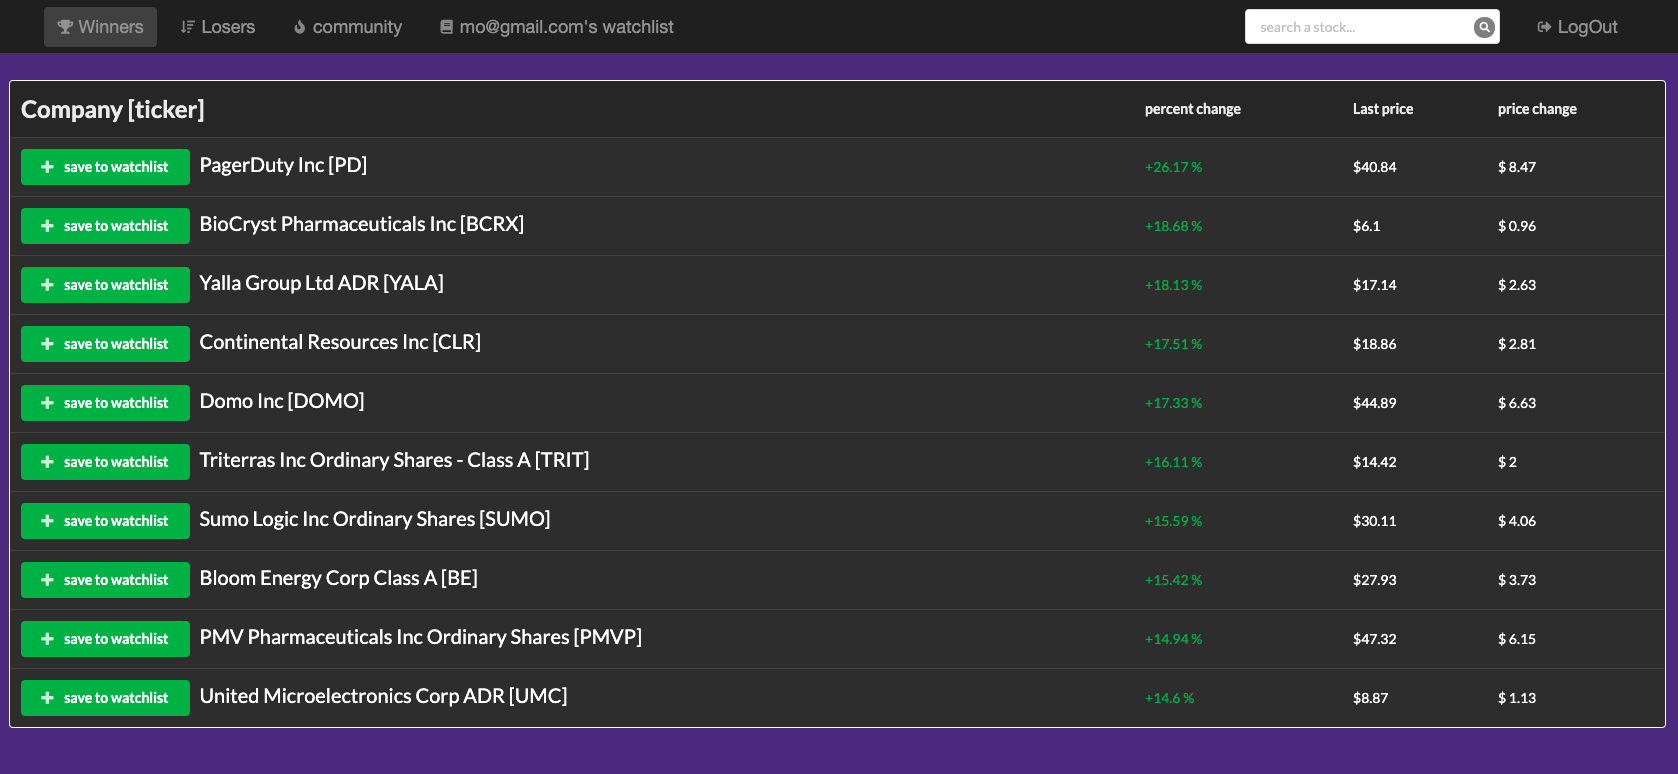
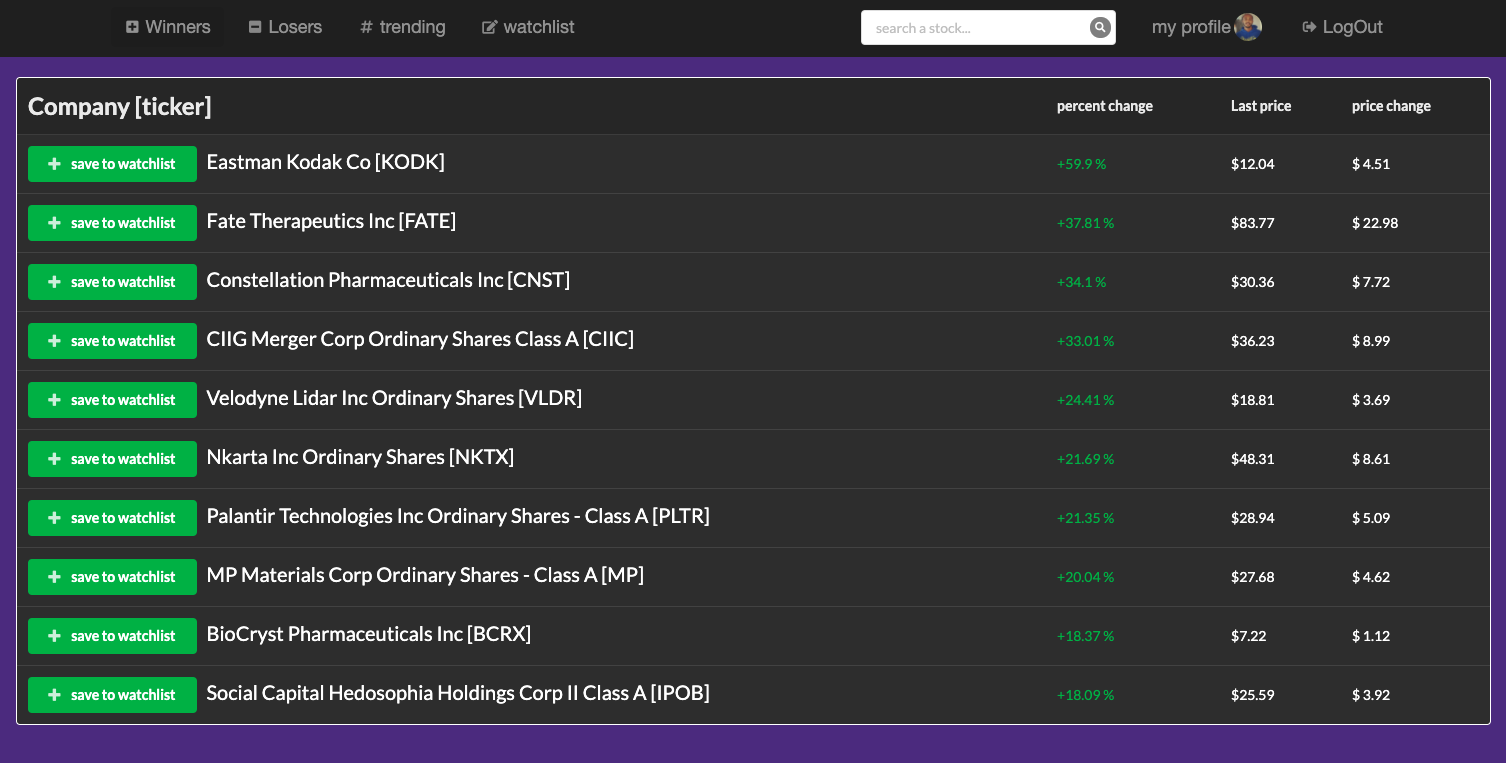
update ui

diff --git a/client/src/containers/Trending/index.js b/client/src/containers/Trending/index.js
@@ -72,45 +72,77 @@ export default class Trending extends Component {
 
   
       {  this.state.filteredUsers.map((item,id)=>(
-
-
+ 
          <div key={item.id} style={{margin:'0 0 20px 0'}}>
 
  
  
-
-
+ 
   
 
-     <div  >
+     <div>
 
+
+     
    
     <Card  fluid style={{border:"none"}}  >
 
-    <Card.Content >
-      <Image
-      
-        size='tiny'
-        src={item.myImages.length? item.myImages[0].filePath : twitter}
-      />
-      <Card.Header >
-        <h1 style={{textAlign:'left',margin:'15px 0 0 0'}}> {item.email}</h1> 
-       </Card.Header>
-    {/* <Card.Meta>{item.email} has {item.myStocks.length} stocks...</Card.Meta> */}
-      
-    </Card.Content>
-    <Card.Content extra>
 
-    
+    <Grid celled='internally'>
+    <Grid.Row>
+      <Grid.Column width={7} >
+
+
+      <Card.Content >
+
+      
+<Image
+floated='left'
+   size='small'
+      style={{borderRadius:'10px',height:'145px'}}
+     src={item.myImages.length? item.myImages[0].filePath : twitter}
+   />
+
+
+<a style={{color:'#999999'}} href={`mailto:${item.email}`} >
+ 
+ <h2 style={{textAlign:'left',margin:'15px 0 0 0'}}> <Icon name='mail'></Icon>{item.email}</h2>
+
+  
+ 
    
-  {item.myStocks.length? 
-<div>
+       </a>
+   <Card.Header  >
+    
+
+    </Card.Header>
+     {item.myStocks.length?
+    <Card.Content>
+      <h3 style={{color:'green',margin:'12px 0 0 0',fontSize:"35px"}}  > <Icon name='pie chart'> </Icon>{item.myStocks.length} stocks... </h3   >
+    </Card.Content>
+  :
+  <h3 style={{margin:'15px 0 0 0'}}> this user does not have any stocks yet</h3>
+  }
+
+
+
+
+ </Card.Content >
+ 
+
+      </Grid.Column>
+      <Grid.Column width={9}>
+
+      <Card.Content extra style={{padding:"15px 0 0 0"}}>
+      
+      {item.myStocks.length? 
+      <div>
 <Table   selectable    >
   <Table.Header>
     <Table.Row>
-       <Table.HeaderCell style={{color:'black'}}>Recent stocks</Table.HeaderCell>
- 
-      <Table.HeaderCell  style={{color:'black'}}>Date</Table.HeaderCell>
+       <Table.HeaderCell style={{color:'black'}}> <h2> Recent stocks</h2> </Table.HeaderCell>
+  
+      <Table.HeaderCell  style={{color:'black'}} > <h2> Date</h2> </Table.HeaderCell>
  
 
      
@@ -121,17 +153,15 @@ export default class Trending extends Component {
     <Table.Row  >
 
  
-      <Table.Cell > 
-        {/* {console.log(item.myStocks[0].text,'item')} */}
-
+      <Table.Cell style={{width:"400px"}} > 
        
-        <p style={{color:'black'}}>{item.myStocks[0].text}</p>
+        <h4 style={{color:'black'}}>{item.myStocks[0].text}</h4>
         
         </Table.Cell>
       
 
-     <Table.Cell> 
-       <p style={{color:'black'}}>{item.myStocks[0].dateCreated } </p>  
+     <Table.Cell > 
+       <h4 style={{color:'black'}}>{item.myStocks[0].dateCreated } </h4>  
        </Table.Cell>
  
 
@@ -140,13 +170,13 @@ export default class Trending extends Component {
 
        <Table.Cell>
  
-<p style={{color:'black'}}>{item.myStocks[1]? item.myStocks[1].text:'none'}</p>
+<h4 style={{color:'black'}}>{item.myStocks[1]? item.myStocks[1].text:'none'}</h4>
 
 
        </Table.Cell>
      
      <Table.Cell> 
-     <p style={{color:'black'}}>{item.myStocks[1]? item.myStocks[1].dateCreated:'none'}</p>
+     <h4 style={{color:'black'}}>{item.myStocks[1]? item.myStocks[1].dateCreated:'none'}</h4>
 
        {/* <p>{item.myStocks.length? item.myStocks[1].dateCreated : 'none'} </p>  */}
        
@@ -201,6 +231,13 @@ export default class Trending extends Component {
   
      
      </Card.Content>
+      </Grid.Column>
+      
+    </Grid.Row>
+    </Grid>
+
+  
+    
 
 
      </Card>      

diff --git a/client/src/containers/UpdateProfile/index.js b/client/src/containers/UpdateProfile/index.js
@@ -191,7 +191,7 @@ handleRequest = (event) => {
            
 
  
-<button className='axiosRequestImages'   onClick={this.handleRequest}> axios request</button>
+<button className='axiosRequestImages'   onClick={this.handleRequest}> add a picture</button>
 
 {/* {this.state.uploadedFile? 
 <div>
@@ -205,16 +205,28 @@ handleRequest = (event) => {
 
 
 
-<h2 style={{textAlign:'center'}}> my images</h2>
+<h2 style={{textAlign:'center'}}> my profile picture</h2>
 <hr></hr>
 <br></br>
+
+ 
 
 {this.state.myImages.map((item)=>(
     <div>
         {/* <p>{item.fileName}</p> */}
-        <img style={{width:'200px',height:'200px',float:'left',margin:"20px",borderRadius:'9px',backgroundColor:'white'}}src={item.filePath}/>
+        <img 
+        style={{width:'200px',
+        height:'200px',
+        float:'left',margin:"20px",
+        borderRadius:'9px',backgroundColor:'white'}}
+        src={item.filePath}
+        />
     </div>
-))}
+ ))
+ }
+
+
+
     </Container>
 </div>
                 

diff --git a/client/src/components/nav/index.js b/client/src/components/nav/index.js
@@ -73,6 +73,8 @@ componentDidMount = () => {
                 name='winners'
                 active={activeItem === 'winners'}
                 onClick={this.handleItemClick}
+ 
+
               >
                 <Icon className='winnermenu'style={{ color: '#9d9d9d' }} name='plus square'></Icon><span className='winnermenu' style={{ color: '#9d9d9d',fontSize:'18px' }}> Winners</span>  </Menu.Item> : null}
          
@@ -82,6 +84,7 @@ componentDidMount = () => {
                 name='losers'
                 active={activeItem === 'losers'}
                 onClick={this.handleItemClick}
+ 
               > <Icon style={{ color: '#9d9d9d' }} name='minus square'></Icon><span className='winnermenu' style={{ color: '#9d9d9d',fontSize:'18px' }}> Losers</span></Menu.Item> : null}
 
 {this.props.authenticated ? <Menu.Item

diff --git a/client/src/containers/Home/index.js b/client/src/containers/Home/index.js
@@ -135,12 +135,18 @@ export default class Home extends Component {
  to="/signup">
  <Button  style={{margin:'30px 0 0 0'}} color='purple'> <Icon name='signup'></Icon><span className='buttn2'> Register</span>  </Button>
  </Link>   
+
+
+
  </Grid.Column>
         </Grid.Row>
 
           
            
          </Grid>
+
+
+         
          </Container>
 
      </Segment>
